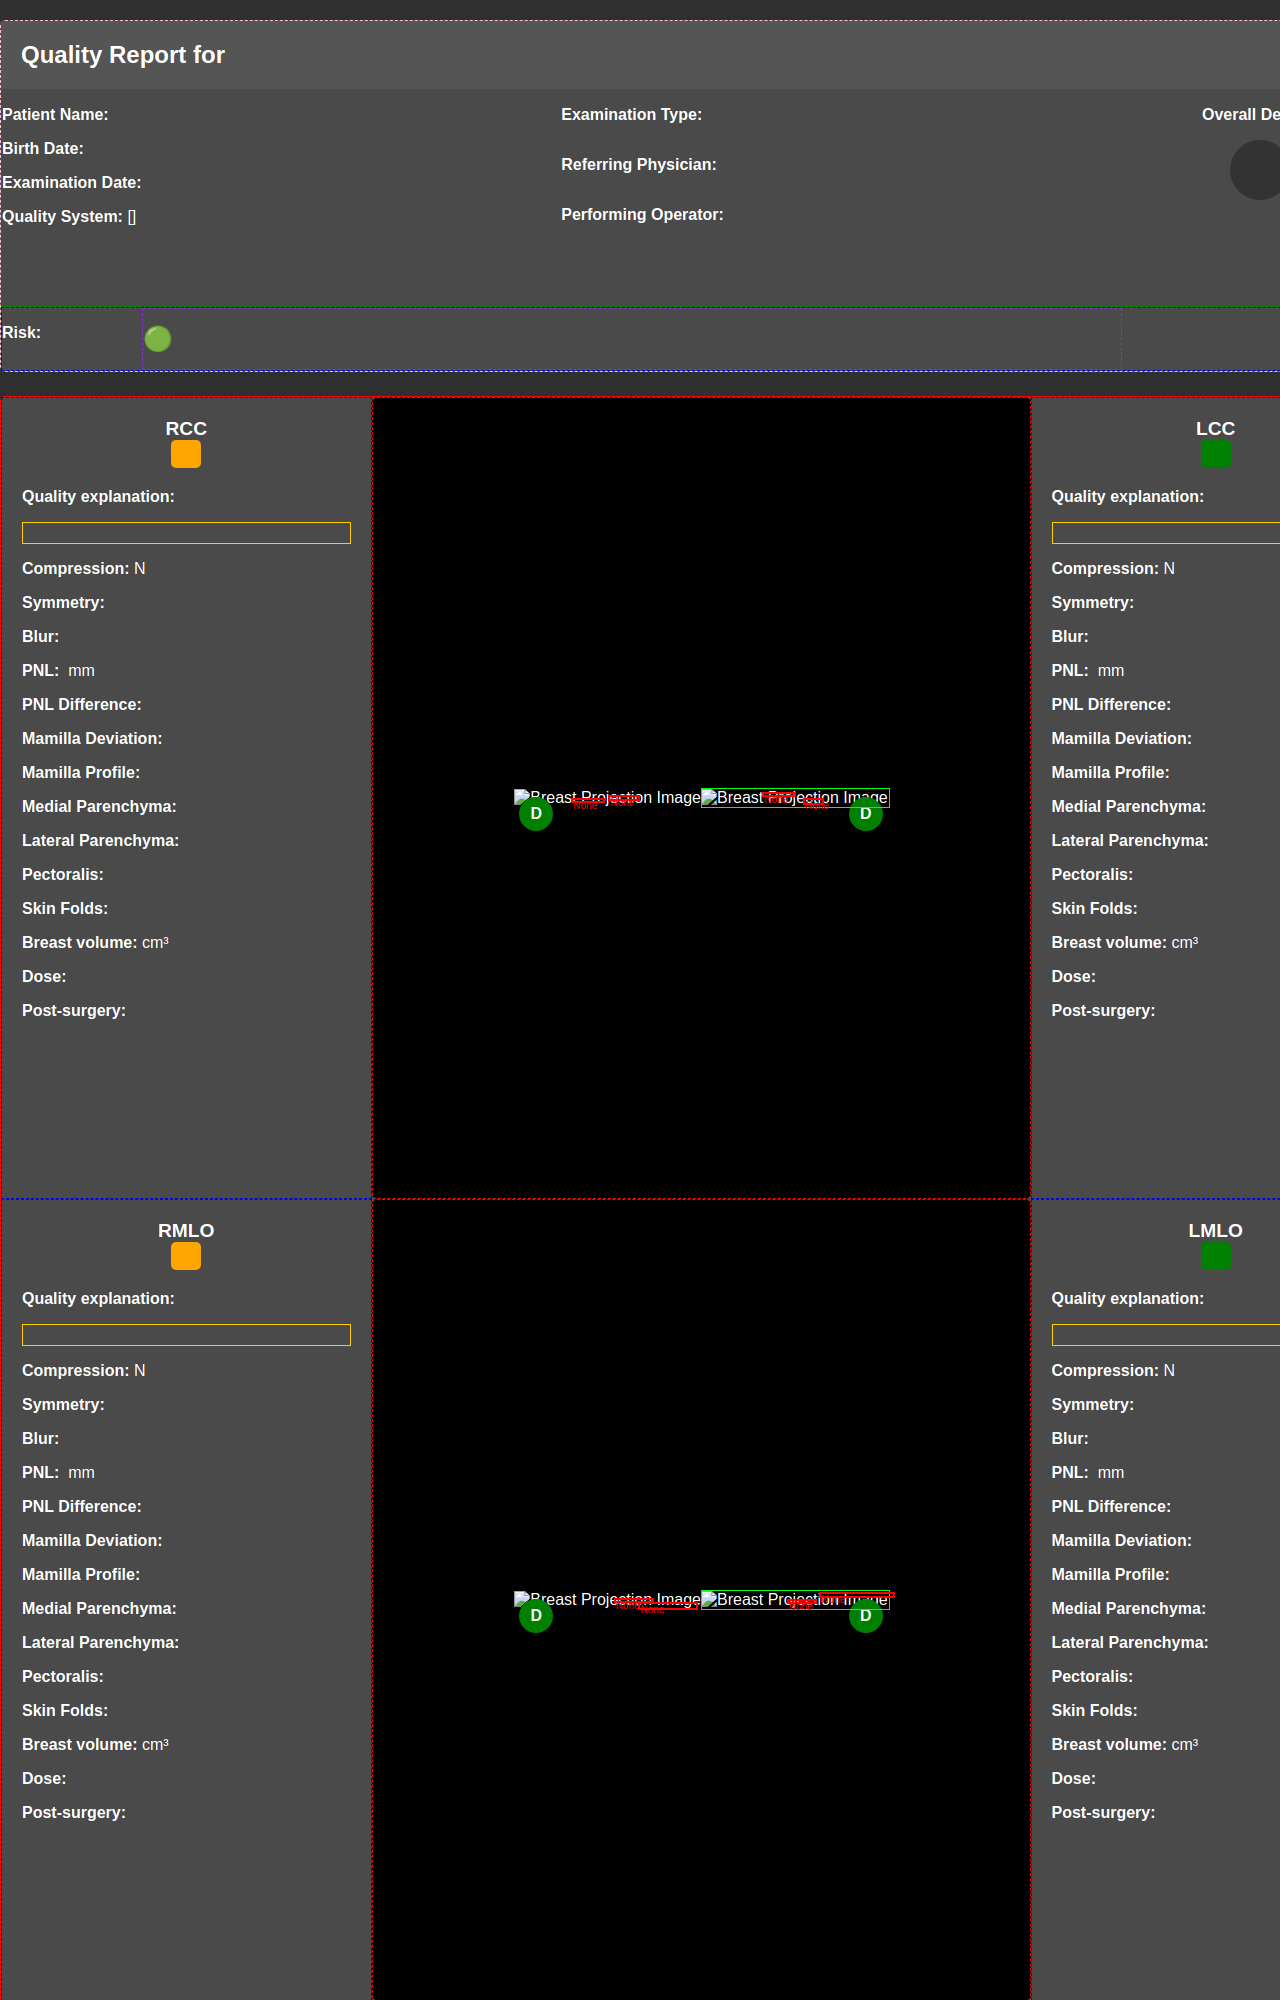
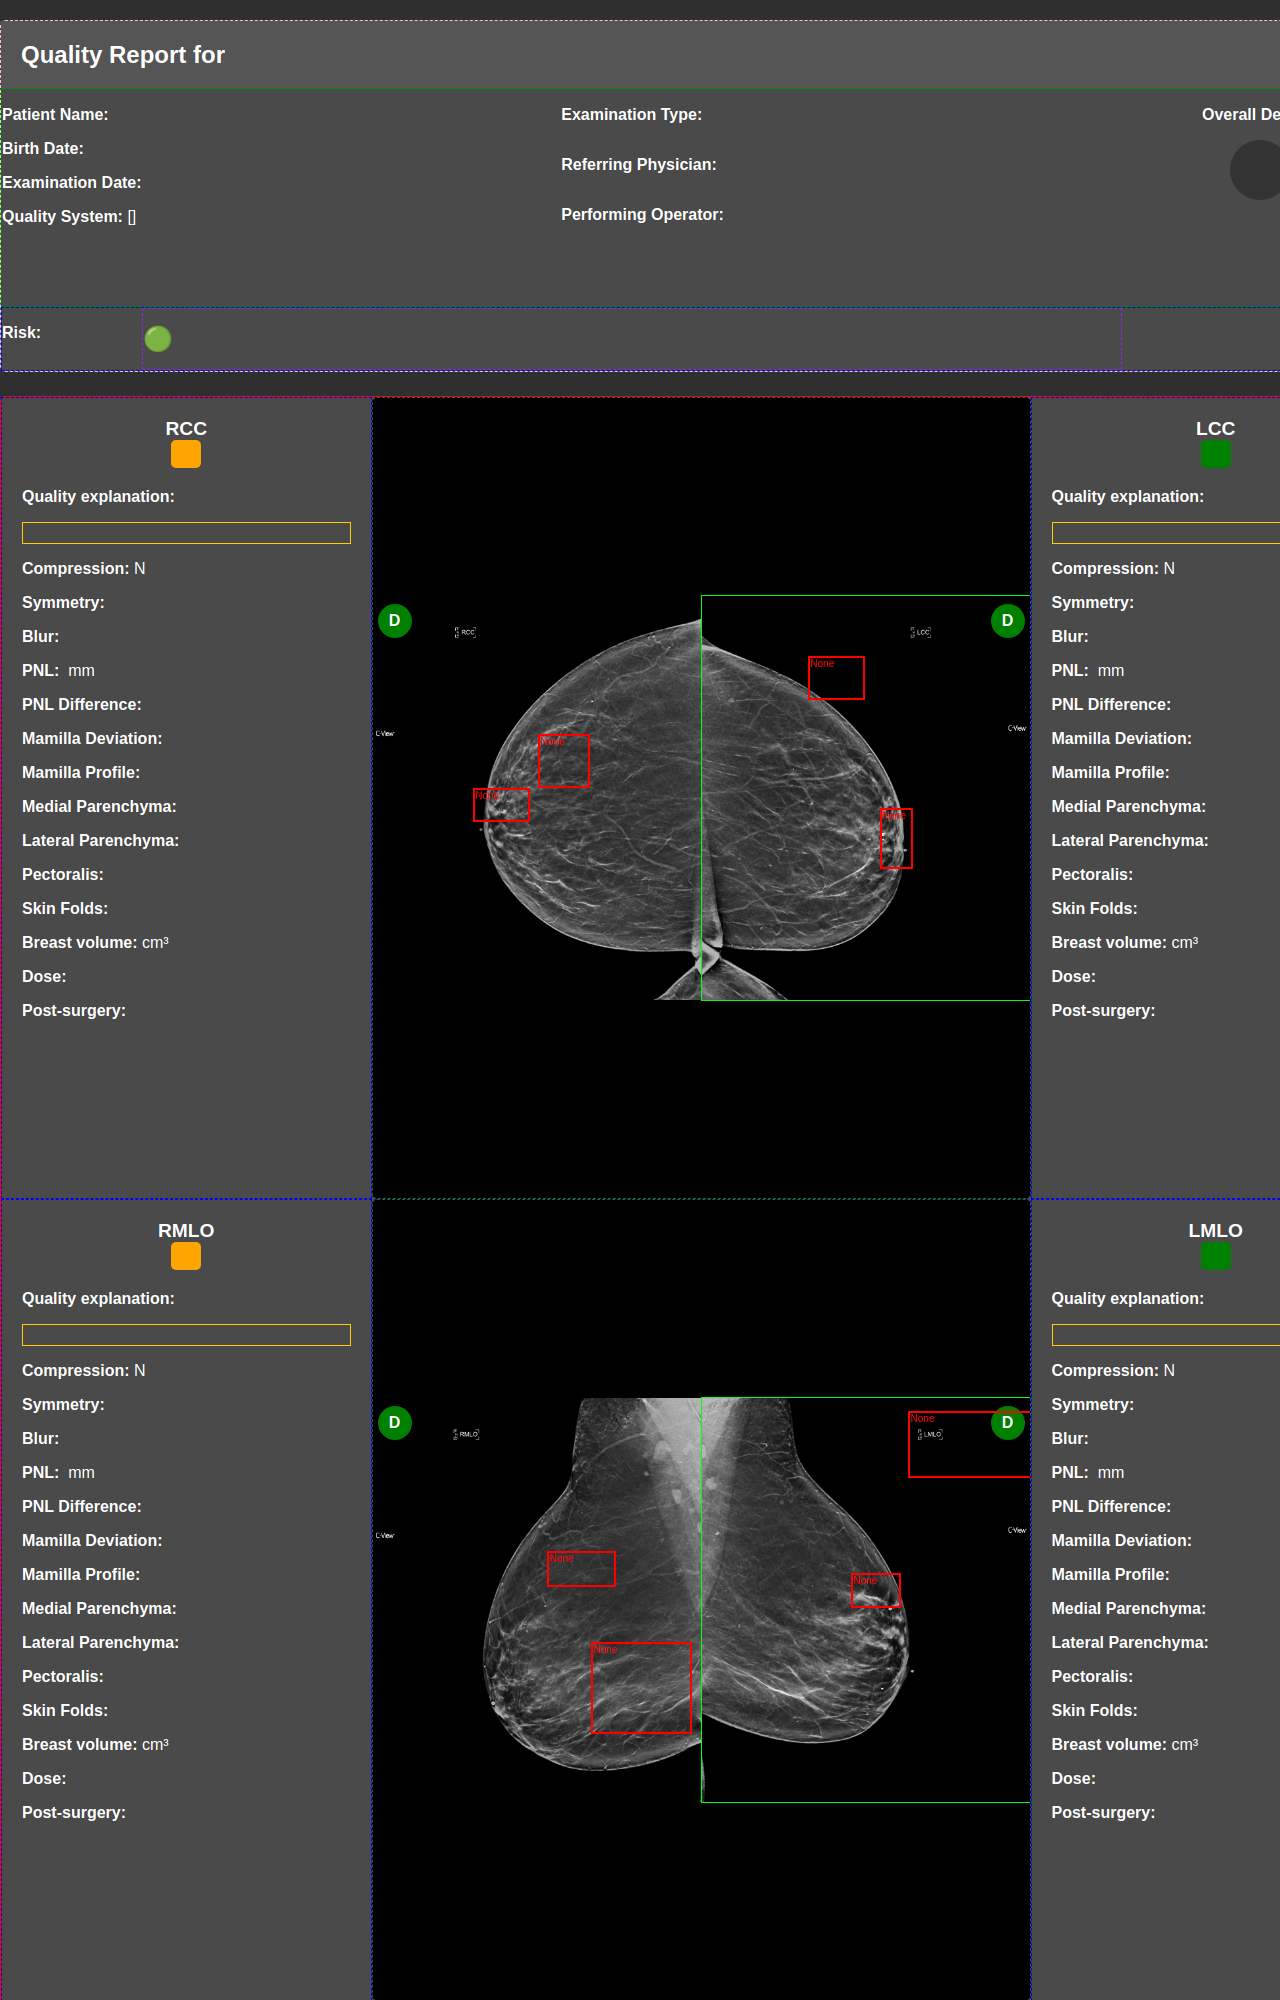
get proj images in all reports

diff --git a/debug_rendered_report_quality.html b/debug_rendered_report_quality.html
@@ -182,7 +182,7 @@
   align-items: center;
   padding: 0px;
   overflow: hidden;
-  border: 1px dashed red;
+  border: 1px dashed rgb(30, 97, 82);
   background-color: black;
   height: 800px;
   display: flex;
@@ -194,8 +194,6 @@
   max-width: 100%;
   max-height: 100%;
   z-index: 1;
-  /* display: block; */
-  object-fit: contain;
   display: flex;
   justify-content: flex-end;
   align-items: center;
@@ -206,8 +204,6 @@
   max-width: 100%;
   max-height: 100%;
   z-index: 1;
-  /* display: block; */
-  /* object-fit: contain; */
   display: flex;
   justify-content: flex-start;
   align-items: center;
@@ -369,7 +365,7 @@
             <div class="density_chip dens-left">
               <p><strong>D</strong></p>
             </div>
-            <img src="/static/images/rcc.png" alt="Breast Projection Image" class="projection_image"/>
+            <img src="http://127.0.0.1:5001//static/images/rcc.png" alt="Breast Projection Image" class="projection_image"/>
             
     <div style="
         position: absolute;
@@ -406,7 +402,7 @@
             <div class="density_chip dens-right">
               <p><strong>D</strong></p>
             </div>
-            <img src="/static/images/lcc.png" alt="Breast Projection Image" class="projection_image"/>   
+            <img src="http://127.0.0.1:5001//static/images/lcc.png" alt="Breast Projection Image" class="projection_image"/>   
             <div class="lesion-shapes">
               
     <div style="
@@ -508,7 +504,7 @@
             <div class="density_chip dens-left">
               <p><strong>D</strong></p>
             </div>
-            <img src="/static/images/rmlo.png" alt="Breast Projection Image" class="projection_image"/>
+            <img src="http://127.0.0.1:5001//static/images/rmlo.png" alt="Breast Projection Image" class="projection_image"/>
             
     <div style="
         position: absolute;
@@ -546,7 +542,7 @@
             <div class="density_chip dens-right">
               <p><strong>D</strong></p>
             </div>
-            <img src="/static/images/lmlo.png" alt="Breast Projection Image" class="projection_image"/>   
+            <img src="http://127.0.0.1:5001//static/images/lmlo.png" alt="Breast Projection Image" class="projection_image"/>   
             <div class="lesion-shapes">
               
     <div style="

diff --git a/templates/index.html b/templates/index.html
@@ -1,28 +1,32 @@
 <!DOCTYPE html>
 <html lang="en">
+
 <head>
     <meta charset="UTF-8">
     <meta name="viewport" content="width=device-width, initial-scale=1.0">
     <title>Generate Report</title>
 </head>
+
 <body>
     <h1>Generate Report Image</h1>
-    
+
     <p>Best options</p>
     <!-- HTML2Image -->
     <form action="/html-2-img-html-to-image" method="get">
         <button type="submit">HTML2Image</button>
     </form>
-   
 
-    <!-- Selenium -->
-    <form action="/selenium-html-to-image" method="get">
-        <button type="submit">Selenium</button>
-    </form>
 
     <!-- Pyppeteer -->
     <form action="/pyppeteer-html-to-image" method="get">
         <button type="submit">Pyppeteer</button>
+    </form>
+
+
+    <!-- Selenium -->
+    <p>Is not getting the proj images</p>
+    <form action="/selenium-html-to-image" method="get">
+        <button type="submit">Selenium</button>
     </form>
 
     </br>
@@ -47,4 +51,5 @@
 
 
 </body>
+
 </html>

diff --git a/my_script.py b/my_script.py
@@ -17,6 +17,7 @@ from webdriver_manager.chrome import ChromeDriverManager
 from selenium.webdriver.common.by import By
 from selenium.webdriver.support.ui import WebDriverWait
 from selenium.webdriver.support import expected_conditions as EC
+from flask import request
 
 
 app = Flask(__name__)
@@ -45,13 +46,17 @@ def index():
     return render_template('index.html', style_sheet_content=style_sheet_content, **translations)
 
 
+
 def get_report_variables():
-    
     """Return common variables including images for report rendering."""
-    rcc_proj_img = url_for('static', filename='images/rcc.png')  
-    lcc_proj_img = url_for('static', filename='images/lcc.png')  
-    rmlo_proj_img = url_for('static', filename='images/rmlo.png')  
-    lmlo_proj_img = url_for('static', filename='images/lmlo.png')  
+    # Get the absolute URL for static image resources
+    base_url = request.url_root  # get the base URL
+
+    # Absolute URLs for images
+    rcc_proj_img = base_url + url_for('static', filename='images/rcc.png')  
+    lcc_proj_img = base_url + url_for('static', filename='images/lcc.png')  
+    rmlo_proj_img = base_url + url_for('static', filename='images/rmlo.png')  
+    lmlo_proj_img = base_url + url_for('static', filename='images/lmlo.png')  
 
     translations = get_translations_dict('en')
     with open('results.json') as f:
@@ -74,8 +79,8 @@ def get_report_variables():
         'breast_image_alt': "Breast Projection Image",
         'report_title': "Mammography Report",
         'rectangles_rcc' : rectangles_rcc,
-        "rectangles_lcc":rectangles_lcc,
-        "rectangles_rmlo" :rectangles_rmlo,
+        "rectangles_lcc": rectangles_lcc,
+        "rectangles_rmlo" : rectangles_rmlo,
         "rectangles_lmlo" : rectangles_lmlo
     }
 
